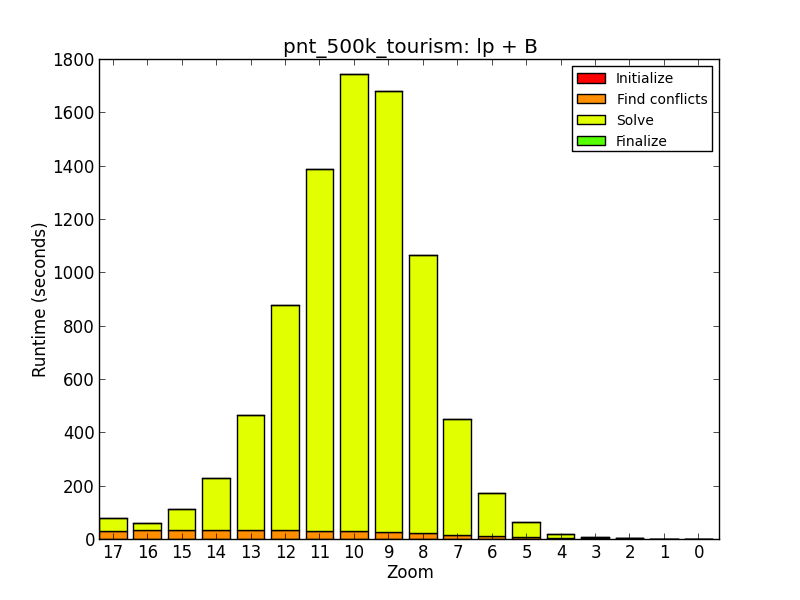
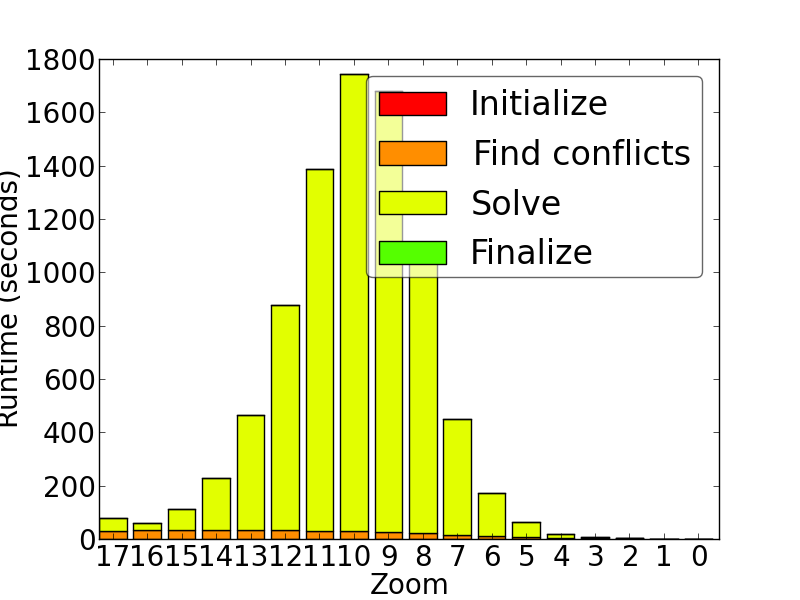
new versions of figures with larger text

diff --git a/paper/experiments.tex b/paper/experiments.tex
@@ -9,20 +9,20 @@
 \subsection{Experimental Setup}
 
 \minisec{Datasets}
-\marcos{Introduce datasets and any selection procedures to scale datasets with justification.}
+We have tested CVL using four real-world datasets with the biggest one containing 23 million points and one synthetic dataset containing 30 million points. The airports dataset is from Openflights and contains 7411 airports (points). The tourism dataset contains 500 thousand points representing tourist attractions worldwide from the OpenStreetMap database. The fractal dataset (synthetic) was created by iteratively copying and displacing points from the tourism dataset within a 10km radius until 30 million records were reached. The US rivers/streams dataset contains 30 thousand named rivers and streams in the United States as multilinestrings, and has been reduced from a OpenStreetMap waterway dataset by merging objects with the same name into one. In the original dataset, most rivers are represented by multiple records, which is unfortunate in a filtering situation. The Protection zones dataset contains 30 thousand high-fidelity administrative protection zone polygons published by the Danish government, and ranges from small polygons the size of buildings to large polygons the size of entire regions.
 
 \begin{table}[htdp]
 \caption{Datasets used in experiments}
 \begin{center}
-\begin{tabular}{|c|c|c|c|}
+\begin{tabular}{|c|c|c|c|c|}
 \hline
-\textbf{Dataset} & \textbf{Type} & \textbf{Records} & \textbf{Points} \\
+\textbf{Origin} & \textbf{Dataset} & \textbf{Type} & \textbf{Records} & \textbf{Points} \\
 \hline
-Openflights airports & Points & $7K$ & $7K$ \\
-Tourist attractions & Points & $500K$ & $500K$ \\
-Synthetic & Points & $30M$ & $30M$ \\
-Danish Area Information & Polygons & $30K$ & $9M$ \\
-US Waterways & Linestrings & $100K$ & $5M$ \\
+Real & Airports & Points & $7K$ & $7K$ \\
+Real & Tourism & Points & $500K$ & $500K$ \\
+Synthetic & Fractal & Points & $30M$ & $30M$ \\
+Real & US rivers/streams & Linestrings & $4K$ & $23M$ \\
+Real & Proctection zones & Polygons & $30K$ & $9M$ \\
 \hline
 \end{tabular}
 \end{center}
@@ -31,26 +31,34 @@ US Waterways & Linestrings & $100K$ & $5M$ \\
 
 
 \minisec{Hardware, Software, and Methods}
-\marcos{Introduce hardware and software setup, as well as measurement procedures..}
-\marcos{Say we use PostgreSQL + PostGIS here.}
-\marcos{Say that automatic parallelism is not supported natively by PostGIS, but is an interesting avenue for future work.}
+The hardware used for testing was an Amazon EC2 instance with 17GB RAM, 2 x Intel(R) Xeon(R) CPU E5-2665 0 @ 2.40GHz and 20MB Cache. 
+
+The operating system was Amazon Linux 3.4.48-45.46.amzn1.x86\_64. An image of the instance we used for testing is available through Amazon EC2 as an AMI. The image contains the exact database used for testing, with all tables preloaded.
+
+The database used for testing was PostgreSQL 9.2.4 with PostGIS  2.0. We used the following versions of libraries: GDAL 1.9.2 and GEOS 3.3.8. For the LP solver we integrated the database with the convex optimization library CVXOPT version 1.1.6 (\texttt{http://cvxopt.org/}). We installed Python language bindings in the database installed against Python 2.6.8.
+
+We ran each test three times on this installation, taking the average of these runs. We observed that measurements were very stable, with negligible difference in compute time between runs.
+
+It should be noted that PostgreSQL always uses a single core to compute a transaction. The generalization process in CVL is run as a single long transaction, which then means that the process is essentially run on a single core. A future avenue would be to investigate parallel executing as the structure of the single-scale filtering problem offers many opportunities for data parallelism.
 
 \subsection{Point Data}
 \label{sec:exp:points}
 
 In this section, we present experimental results with point datasets, namely the Openflight airports and Tourist attractions datasets. We first discuss performance and quality breakdowns for CVL and then proceed to analyze CVL's scalability behavior. Even though we experimented with all combinations of solvers (SGA / LPGA) and constraints (cellbound / proximity / combined), we show only representative results for brevity. Results for the combined cellbound and proximity constraints exhibited the same performance trends as of the most expensive of the two constraints. All other results followed similar trends as the ones explored below.    
 
+The test instances
+
 \begin{figure*}[tb]
   \begin{minipage}{0.329\linewidth}
-    \centerline{\includegraphics[width=0.9\linewidth]{./figs/prelim_pnt_7k_airports_heuristic_B.png}}
+    \centerline{\includegraphics[width=1.0\linewidth]{./figs/prelim_pnt_7k_airports_heuristic_B.png}}
     \centerline{(a) SGA + Proximity}
   \end{minipage} \hfill
   \begin{minipage}{0.329\linewidth}
-    \centerline{\includegraphics[width=0.9\linewidth]{./figs/prelim_pnt_7k_airports_lp_A.png}}
+    \centerline{\includegraphics[width=1.0\linewidth]{./figs/prelim_pnt_7k_airports_lp_A.png}}
     \centerline{(b) LPGA + Cellbound}
   \end{minipage} \hfill
   \begin{minipage}{0.329\linewidth}
-    \centerline{\includegraphics[width=0.9\linewidth]{./figs/prelim_pnt_7k_airports_lp_B.png}}
+    \centerline{\includegraphics[width=1.0\linewidth]{./figs/prelim_pnt_7k_airports_lp_B.png}}
     \centerline{(c) LPGA + Proximity}
   \end{minipage}
   \vspace{-0ex}
@@ -60,15 +68,15 @@ In this section, we present experimental results with point datasets, namely the
 
 \begin{figure*}[tb]
   \begin{minipage}{0.329\linewidth}
-    \centerline{\includegraphics[width=0.9\linewidth]{./figs/prelim_pnt_500k_tourism_heuristic_A.png}}
+    \centerline{\includegraphics[width=1.0\linewidth]{./figs/prelim_pnt_500k_tourism_heuristic_A.png}}
     \centerline{(a) SGA + Cellbound}
   \end{minipage} \hfill
   \begin{minipage}{0.329\linewidth}
-    \centerline{\includegraphics[width=0.9\linewidth]{./figs/prelim_pnt_500k_tourism_lp_A.png}}
+    \centerline{\includegraphics[width=1.0\linewidth]{./figs/prelim_pnt_500k_tourism_lp_A.png}}
     \centerline{(b) LPGA + Cellbound}
   \end{minipage} \hfill
   \begin{minipage}{0.329\linewidth}
-    \centerline{\includegraphics[width=0.9\linewidth]{./figs/prelim_pnt_500k_tourism_lp_B.png}}
+    \centerline{\includegraphics[width=1.0\linewidth]{./figs/prelim_pnt_500k_tourism_lp_B.png}}
     \centerline{(c) LPGA + Proximity}
   \end{minipage}
   \vspace{-0ex}
@@ -121,8 +129,25 @@ While SGA performs significantly better than LPGA, it does not do so at the cost
 \subsection{Graphical Output}
 \label{sec:exp:graphical}
 
-\marcos{Show maps for airport datasets with full dataset (world), top zoom level (world), and one intermediate zoom level (US). Goal is to show anecdotal evidence for quality of generalizations that can be created with CVL.}
+\begin{figure*}[tb]
+  \begin{minipage}{0.329\linewidth}
+    \centerline{\includegraphics[width=0.95\linewidth]{./figs/airports.png}}
+    \centerline{(a) Full Openflights Airport dataset}
+  \end{minipage} \hfill
+  \begin{minipage}{0.329\linewidth}
+    \centerline{\includegraphics[width=0.95\linewidth]{./figs/airports_z4.png}}
+    \centerline{(b) Airports at zoom-level 5}
+  \end{minipage} \hfill
+  \begin{minipage}{0.329\linewidth}
+    \centerline{\includegraphics[width=0.95\linewidth]{./figs/airports_z0.png}}
+    \centerline{(c) Airports on the top-most zoom-level.}
+  \end{minipage}
+  \vspace{-0ex}
+  \caption{Visualization of CVL output for Openflights Airport dataset (7K points) using the cellbound constraint with $K=16$} \label{fig:graphical:output:airport}
+  \vspace{-2ex}
+\end{figure*}
 
+In Figure~\ref{fig:graphical:output:airport} we have visualized the output of CVL for the Openflights Airports dataset, subject to the cellbound constraint with $K=16$. The image on the left shows the full Openflights Airports dataset. Notice how the individual records are not distinquishable from each other. The image on the right shows the CVL filtering for the top-most zoom-level (lowest scale), which includes the 16 biggest and arguably most important airports in the world, among them Los Angeles International Airport (LAX), John F. Kennedy International Airport (JFK), London Heathrow Airport (LHR), Frankfurt Airport (FRA), Singapore Changi Airport (SIN) and Hong Kong International Airport (HKG). The image in the middle shows an intermediate zoom-level over the United States.
 %\begin{figure}[htbp]
 %\begin{center}
 %\includegraphics[scale=.5]{figs/cvl_todo.pdf}

diff --git a/code/graphs/cvlgraph.py b/code/graphs/cvlgraph.py
@@ -7,14 +7,17 @@ from cvltrace import TraceReader
 import numpy as np
 import matplotlib.pyplot as plt
 import matplotlib.cm as cm
+import matplotlib
 import matplotlib.font_manager as font_manager
 
 import sys
 import os
 import re
+import pdb
 from datetime import timedelta
 
 __author__ = 'kostas'
+
 
 class QualAccum(object):
 
@@ -64,8 +67,6 @@ class QualAccum(object):
         plt.clf()
 
 
-
-
 class Stack(object):
 
     def __init__(self, trace):
@@ -111,12 +112,15 @@ class Stack(object):
             constr = 'A'
         else:
             constr = 'B'
-        plt.title('{0:s}: {1:s} + {2:s}'.format(
-            self.trace.input_table,
-            self.trace.solver,
-            constr))
-        plt.legend(loc='upper right',
-                   prop=font_manager.FontProperties(size=10))
+        #plt.title('{0:s}: {1:s} + {2:s}'.format(
+        #    self.trace.input_table,
+        #    self.trace.solver,
+        #    constr))
+        if trace.input_table == 'pnt_7k_airports':
+            leg = plt.legend(loc='upper left', fancybox=True)
+        else:
+            leg = plt.legend(loc='upper right',fancybox=True)
+        leg.get_frame().set_alpha(0.6)
         #plt.gca().yaxis.set_major_formatter(FuncFormatter(billions))
 
         filename = os.path.join(output_dir, "prelim_{0:s}_{1:s}_{2:s}.png".format(
@@ -139,6 +143,8 @@ if __name__ == '__main__':
     if len(args) == 0:
         parser.print_help()
         sys.exit(1)
+
+    matplotlib.rcParams.update({'font.size': 20})
 
     output_dir = os.path.join(os.path.dirname(os.path.realpath(__file__)), '..','..','results','figures')
     output_dir = os.path.realpath(output_dir)

diff --git a/code/test_util.py b/code/test_util.py
@@ -13,7 +13,7 @@ SOLVERS = [
 
 CONSTRAINTS = [
     [('cellbound', 16)],
-    [('proximity', 10)],
+    [('proximity', 10)]us
     [('cellbound', 16),('proximity', 10)]
 ]
 
